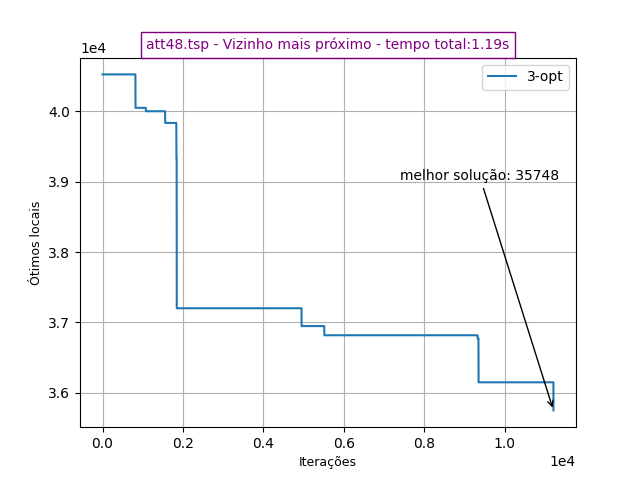
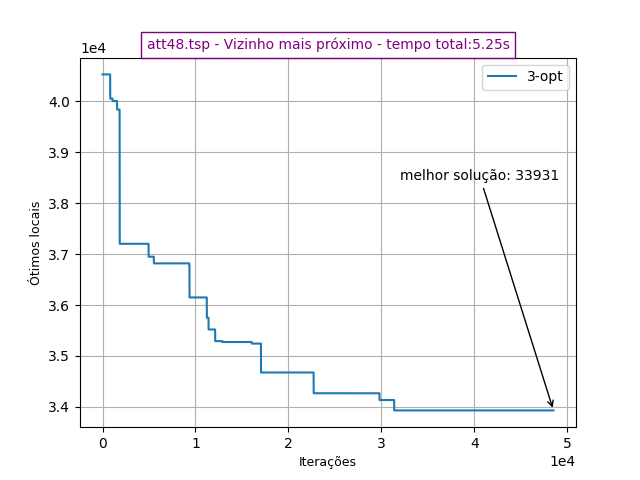
3opt corrigido e otimizado

diff --git a/PCV/improvement.py b/PCV/improvement.py
@@ -124,15 +124,18 @@ def dist_between_points(graph, route, p1 ,p2):
 
 def three_opt(graph, route):
     size_route = localLen(route)
+    print(f'sizeroute = {size_route}')
     should_break = False
     counter = 0
     wRoute = sumdistance(graph, route)
+    improved = True
 
     plt_counter = -1
     plt_counters = []
     plt_opts = []
 
-    while not should_break:
+    while improved:
+        improved = False
 
         for a in range(size_route - 4):
             if should_break:
@@ -142,8 +145,9 @@ def three_opt(graph, route):
                     break
                 for c in range(b + 2, size_route - (a == 0)):
 
-                    if counter >= 10:
+                    if counter >= 100:
                         should_break = True
+                        improved = True
                         break
 
                     wRoute0 = wRoute
@@ -174,6 +178,7 @@ def three_opt(graph, route):
                         counter += 1
                         route = new_route
                         wRoute = wRoute1
+                        improved = True
                         continue
                     """
                     ### CASO 2
@@ -193,6 +198,7 @@ def three_opt(graph, route):
                         counter += 1
                         route = new_route
                         wRoute = wRoute2
+                        improved = True
                         continue
                     """
                     ### CASO 3
@@ -212,6 +218,7 @@ def three_opt(graph, route):
                         counter += 1
                         route = new_route
                         wRoute = wRoute3
+                        improved = True
                         continue
                     """
                     ### CASO 4
@@ -231,6 +238,7 @@ def three_opt(graph, route):
                         counter += 1
                         route = new_route
                         wRoute = wRoute4
+                        improved = True
                         continue
 
                     ### os outros 4 casos são equivalentes ao 2opt
